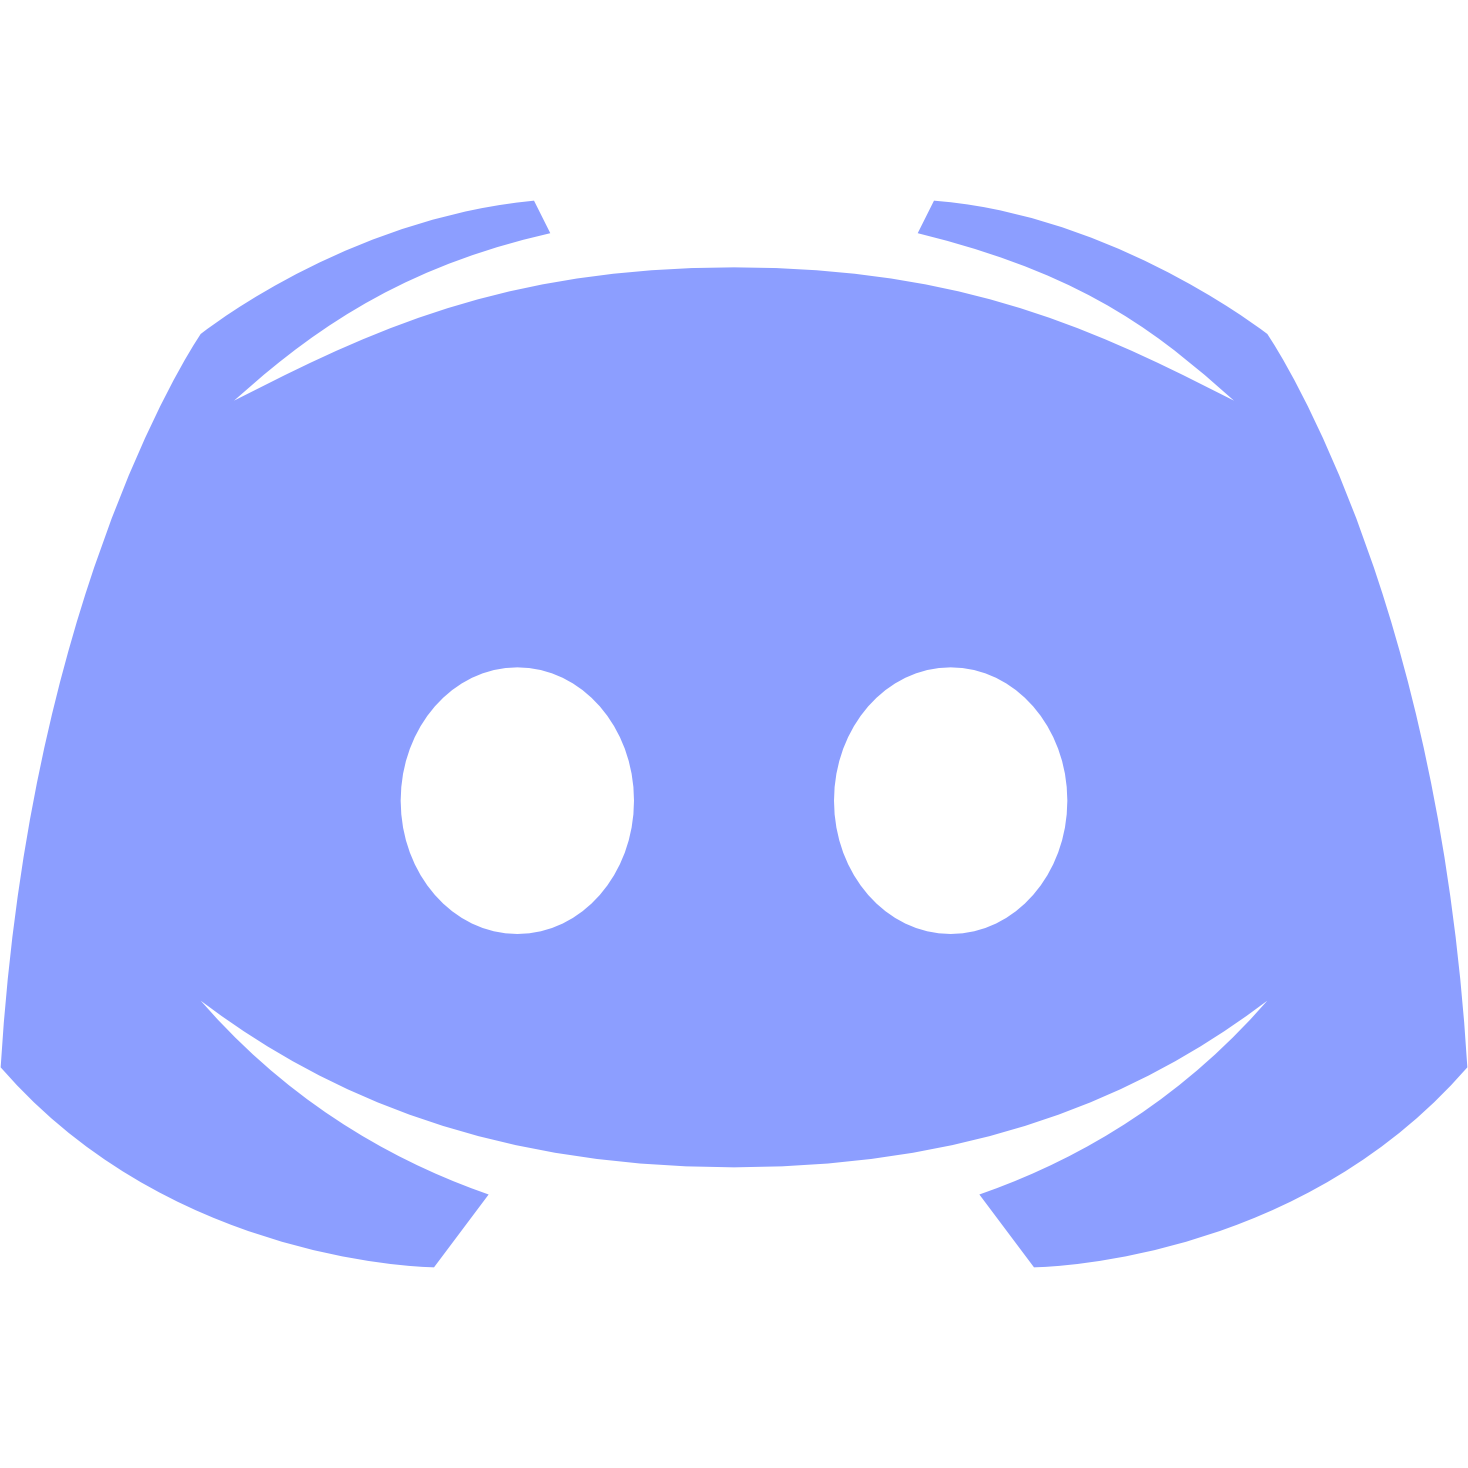
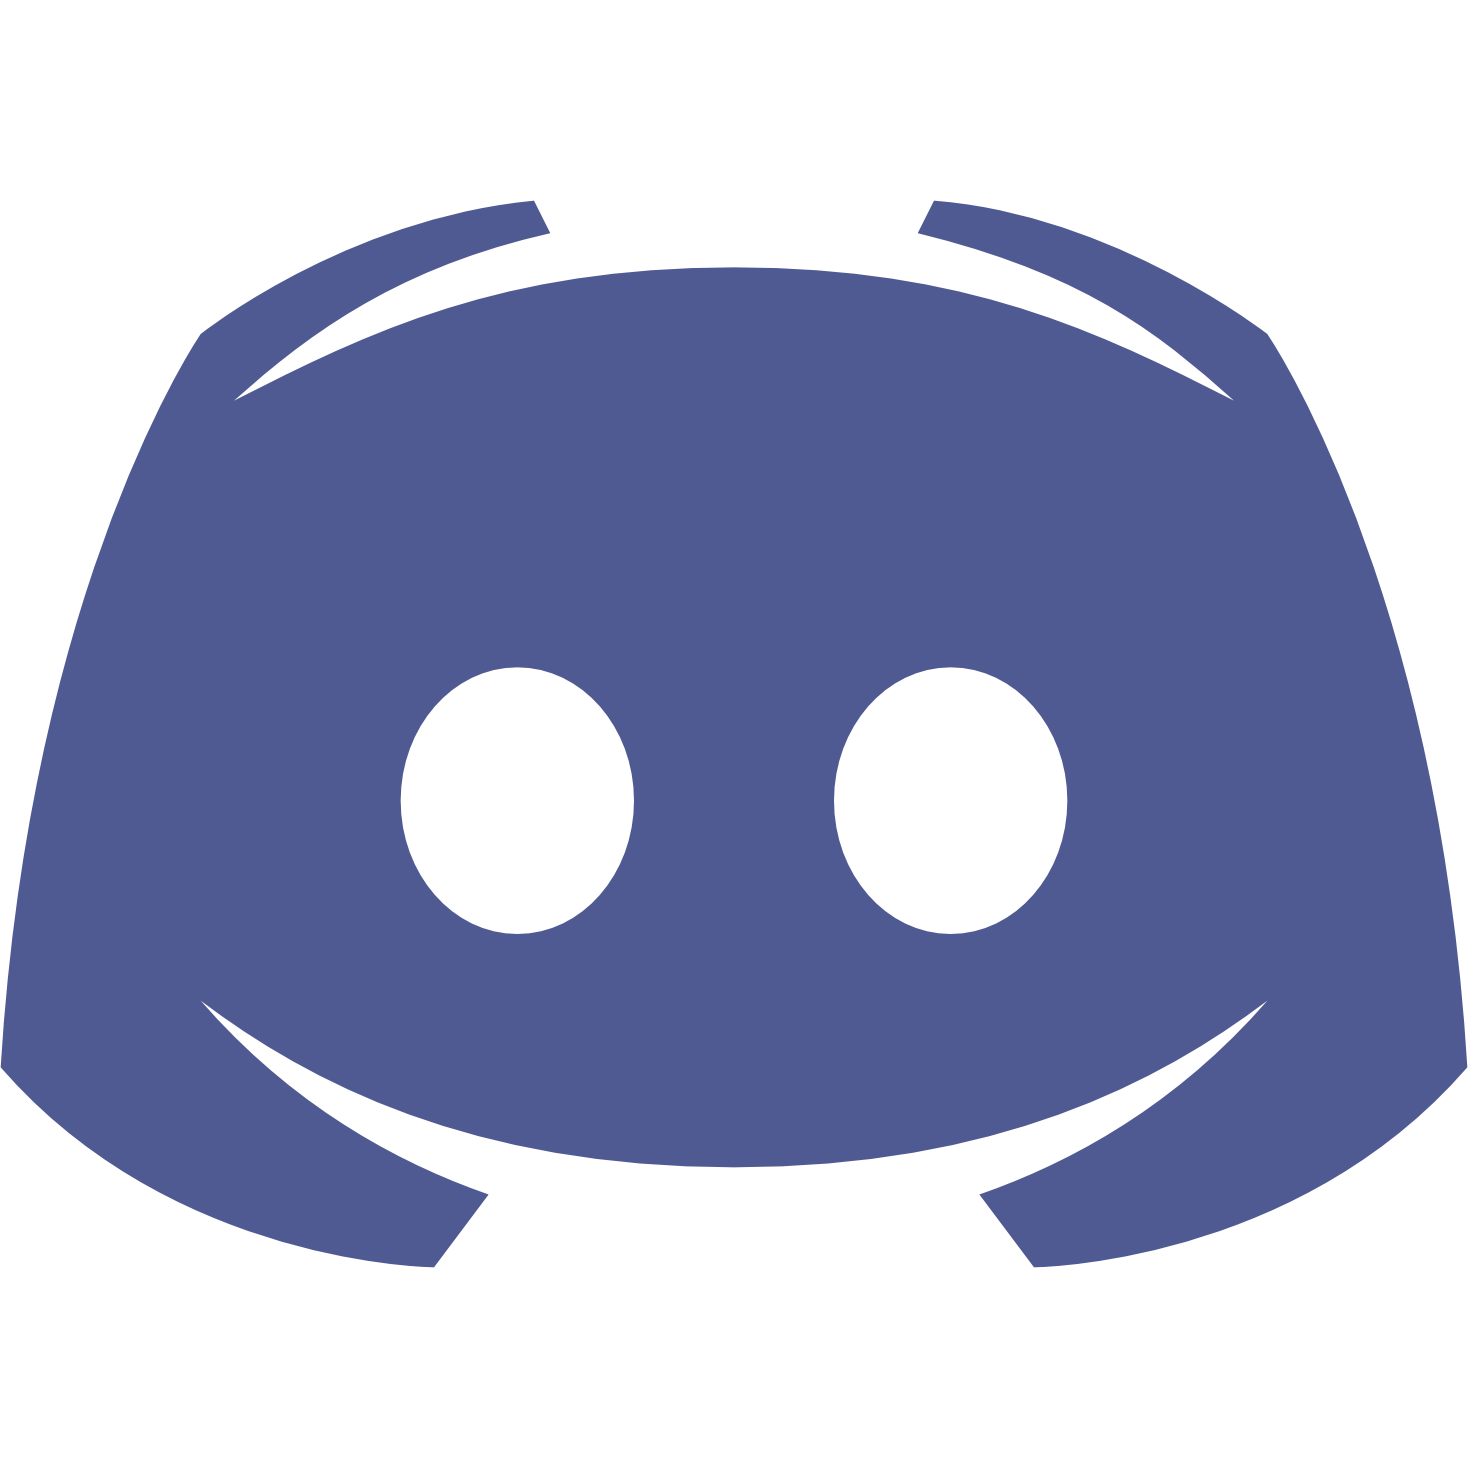
Update README

diff --git a/README.md b/README.md
@@ -17,13 +17,15 @@ I have been involved in game development on Unity for 2 years already, and games
 
 
 <p align="left">
+<img src="Icons/Unity.png" width="36" height="36" />
 <a href="https://docs.microsoft.com/en-us/dotnet/csharp/" target="_blank" rel="noreferrer"><img src="https://raw.githubusercontent.com/danielcranney/readme-generator/main/public/icons/skills/csharp-colored.svg" width="36" height="36" alt="C#" /></a><a href="https://git-scm.com/" target="_blank" rel="noreferrer"><img src="https://raw.githubusercontent.com/danielcranney/readme-generator/main/public/icons/skills/git-colored.svg" width="36" height="36" alt="Git" /></a><a href="https://www.blender.org/" target="_blank" rel="noreferrer"><img src="https://raw.githubusercontent.com/danielcranney/readme-generator/main/public/icons/skills/blender-colored.svg" width="36" height="36" alt="Blender" /></a><a href="https://www.adobe.com/uk/products/photoshop.html" target="_blank" rel="noreferrer"><img src="https://raw.githubusercontent.com/danielcranney/readme-generator/main/public/icons/skills/photoshop-colored.svg" width="36" height="36" alt="Photoshop" /></a><a href="https://www.figma.com/" target="_blank" rel="noreferrer"><img src="https://raw.githubusercontent.com/danielcranney/readme-generator/main/public/icons/skills/figma-colored.svg" width="36" height="36" alt="Figma" /></a>
 </p>
 
 
 ### Socials
 
-<p align="left"> <a href="https://discord.com/users/blizzarddragon" target="_blank" rel="noreferrer"> <picture> <source media="(prefers-color-scheme: dark)" srcset="undefined" /> <source media="(prefers-color-scheme: light)" srcset="https://raw.githubusercontent.com/danielcranney/readme-generator/main/public/icons/socials/discord.svg" /> <img src="Discord.png" width="32" height="32" /> </picture> </a> <a href="https://www.github.com/BlizzardDragon" target="_blank" rel="noreferrer"> <picture> <source media="(prefers-color-scheme: dark)" srcset="https://raw.githubusercontent.com/danielcranney/readme-generator/main/public/icons/socials/github-dark.svg" /> <source media="(prefers-color-scheme: light)" srcset="https://raw.githubusercontent.com/danielcranney/readme-generator/main/public/icons/socials/github.svg" /> <img src="https://raw.githubusercontent.com/danielcranney/readme-generator/main/public/icons/socials/github.svg" width="32" height="32" /> </picture> </a></p>
+<p align="left"> <a href="https://discord.com/users/blizzarddragon" target="_blank" rel="noreferrer"> <picture> <source media="(prefers-color-scheme: light)" srcset="https://raw.githubusercontent.com/danielcranney/readme-generator/main/public/icons/socials/discord.svg" /> 
+<img src="Icons/Discord.png" width="32" height="32" /> </picture> </a> <a href="https://www.github.com/BlizzardDragon" target="_blank" rel="noreferrer"> <picture> <source media="(prefers-color-scheme: dark)" srcset="https://raw.githubusercontent.com/danielcranney/readme-generator/main/public/icons/socials/github-dark.svg" /> <source media="(prefers-color-scheme: light)" srcset="https://raw.githubusercontent.com/danielcranney/readme-generator/main/public/icons/socials/github.svg" /> <img src="https://raw.githubusercontent.com/danielcranney/readme-generator/main/public/icons/socials/github.svg" width="32" height="32" /> </picture> </a></p>
 
 ### Badges
 
